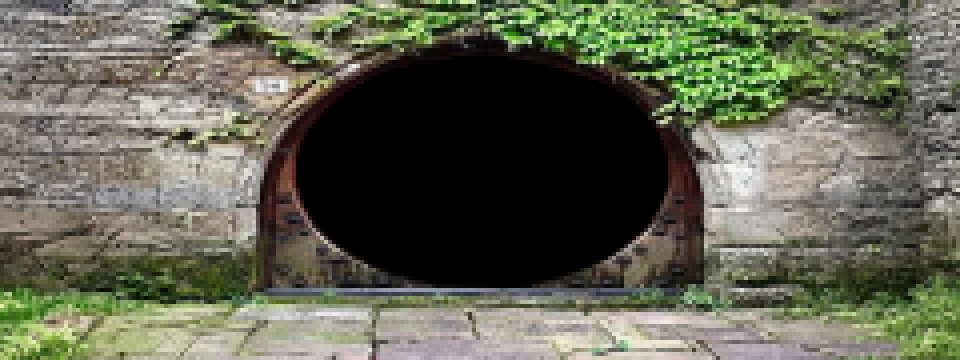
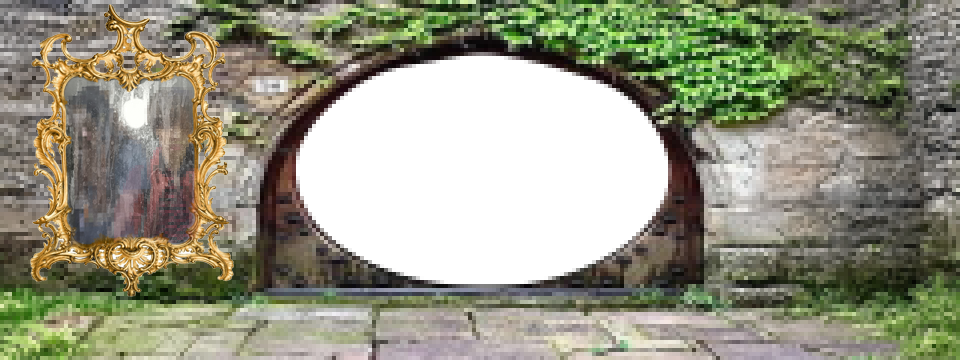
Alot of features for the TowerDoor scene

diff --git a/src/scenes/utility/load.js b/src/scenes/utility/load.js
@@ -19,6 +19,8 @@ class Load extends Phaser.Scene
        this.load.image('pointerHover','./assets/images/Hover.png')
        this.load.image('pointerHold','./assets/images/Hold.png')
        this.load.image('devBG','./assets/images/RobertRoom/DevScene.png')
+       this.load.image('portal', './assets/images/PortalBackdrop.png')
+       this.load.image('letterHand', './assets/images/LetterHand.png')
        //Michaels room
         this.load.image('michaelRoomBG','./assets/images/MichaelRoom/MichaelsRoomBG.png')
         this.load.image('michaelComputer','./assets/images/MichaelRoom/computer.png')
@@ -48,12 +50,16 @@ class Load extends Phaser.Scene
         this.load.image('playBG2','./assets/images/PlayRoom/GroundForeground.png')
         //TowerEntrance
         this.load.image('towerEntranceBG','./assets/images/TowerEntrance/TowerFrontDoor.png')
+        this.load.image('mirrorShard','./assets/images/TowerEntrance/MirrorShard.png')
+        this.load.image('towerDoorClosed','./assets/images/TowerEntrance/DoorClosed.png')
+        this.load.image('towerDoorOpen','./assets/images/TowerEntrance/DoorOpen.png')
         // this.load.image('towerMirror','./assets/images/TowerEntrance/Mirror.png')
         this.load.spritesheet('towerMirror','./assets/images/TowerEntrance/MirrorSheet.png',{frameWidth: 204, frameHeight: 300})
 
         //load spritesheets---------------
         this.load.spritesheet('mailBox','./assets/images/RobertRoom/MaleBoxAnimatedV2.png',{frameWidth: 180, frameHeight: 250})
         this.load.spritesheet('bottleSheet','./assets/images/PlayRoom/BottleSheet.png',{frameWidth: 427, frameHeight: 425})
+        this.load.spritesheet('eyeBlink','./assets/images/TowerEntrance/EyeBlinkSheet.png',{frameWidth: 207, frameHeight: 122})
         //load audio------------------
         this.load.audio('fireSound','./assets/sounds/fire.wav')
         //load fonts------------------
@@ -81,6 +87,14 @@ class Load extends Phaser.Scene
                 key: 'bottleAnim',
                 frames: this.anims.generateFrameNumbers('bottleSheet',{start: 0, end: 3}),
                 frameRate: 15,
+                repeat: -1
+            })
+
+            //Eye Blinking animatation
+            this.anims.create({
+                key: 'eyeBlinkAnim',
+                frames: this.anims.generateFrameNumbers('eyeBlink',{start: 0, end: 1}),
+                frameRate: 2,
                 repeat: -1
             })
             

diff --git a/src/scenes/towerEntrance/TowerEntrance.js b/src/scenes/towerEntrance/TowerEntrance.js
@@ -6,9 +6,16 @@ class TowerEntrance extends Phaser.Scene {
     create(){
         this.mirrorClicks = 0
         this.mirrorBroken = false
+        this.towerDoorClickable = new ClickableObject(this, 482, 170, 'towerDoorClosed', "The door is locked tight.").setOrigin(0.5,0.5).setScale(1.2)
+        this.towerDoorway = new DoorWay(this, 459, 135, 'towerDoorClosed', 'towerEntranceScene', 'towerDoorOpen').setOrigin(0.5,0.5).setScale(1.2)
         this.towerEntranceBG = this.add.image(0,0,'towerEntranceBG').setOrigin(0,0)
+
         //this.towerMirror = this.add.image(30,4,'towerMirror').setOrigin(0,0)
-        this.mirror = this.add.sprite(30,4,'towerMirror',0).setOrigin(0,0).setInteractive()
+        this.mirror = new ClickableObject (this, 132, 150, 'towerMirror', "Its so fragile...").setOrigin(0.5,0.5)
+        this.mirrorBrokenFindable = new FindableObject(this,3000,4 + 150,'towerMirror','mirrorShardCloseUpScene', -1).setOrigin(0.5,0.5).setFrame(3) //Not doorway because its resetting sprite to default
+
+        this.eye = new ClickableObject ( this, 805, 69, 'eyeBlink', "Its watching you...").setOrigin(0.5,0.5).play('eyeBlinkAnim')
+
         this.mirror.on('pointerdown', () => {
             if (this.mirrorBroken) return
 
@@ -22,6 +29,14 @@ class TowerEntrance extends Phaser.Scene {
                 this.mirrorBroken = true
             }
         })
+
+        this.eye.on('pointerover', () => {
+            this.eye.anims.pause()
+            this.eye.setFrame(2)
+        })
+        this.eye.on('pointerout', () => {
+            this.eye.anims.play('eyeBlinkAnim')
+        })
     }
 
     update(){
@@ -32,7 +47,10 @@ class TowerEntrance extends Phaser.Scene {
                     on the third or 5th crack the mirror breaks 
                     mirror becomes a findable shard of glass
         */
-
+       if (this.mirrorBroken) {
+        this.mirror.x = 1500 //Send it off screen
+        this.mirrorBrokenFindable.x = 132
+       }
     }
 
 }

diff --git a/src/scenes/towerEntrance/MirrorShardCloseUp.js b/src/scenes/towerEntrance/MirrorShardCloseUp.js
@@ -1,0 +1,23 @@
+class MirrorShardCloseUp extends Phaser.Scene
+{
+    constructor()
+    {
+        super("mirrorShardCloseUpScene")
+    }
+
+    create(){
+         //add black bg so there isn't red clipping when the portal bg is rotating
+        this.add.rectangle(0,0,width,playHeight,0x000000).setOrigin(0,0)
+        this.sceneBG = this.add.image(width/2,playHeight/2,'portal').setOrigin(0.5,0.5)
+        this.mirrorShard = new FindableObject(this,225,180,'mirrorShard','towerUnlockedScene',-1).setOrigin(0.5,0.5)
+       // this.shard = new FindableObject(this,225,180,'mailBox','towerUnlockedScene',3).play('bottleAnim').setOrigin(0.5,0.5)
+        
+        //background rotate slowly
+        this.tweens.add({
+            targets: this.sceneBG,
+            angle: 360,
+            duration: 30000,
+            repeat: -1
+        })
+    }
+}

diff --git a/src/scenes/betweenScenes/MaleBoxCloseUp.js b/src/scenes/betweenScenes/MaleBoxCloseUp.js
@@ -5,9 +5,18 @@ class MaleBoxCloseUp extends Phaser.Scene
     }
 
     create()
-    {
-        this.sceneBG = this.add.image(width/2,playHeight/2,'playLetter')
+    {   
+        //add black bg so there isn't red clipping when the portal bg is rotating
+        this.add.rectangle(0,0,width,playHeight,0x000000).setOrigin(0,0)
+        this.sceneBG = this.add.image(width/2,playHeight/2,'portal').setOrigin(0.5,0.5)
         this.bottle = new FindableObject(this,225,180,'mailBox','towerUnlockedScene',3).play('bottleAnim').setOrigin(0.5,0.5)
-            
+        
+        //background rotate slowly
+        this.tweens.add({
+            targets: this.sceneBG,
+            angle: 360,
+            duration: 30000,
+            repeat: -1
+        })
     }
 }

diff --git a/index.html b/index.html
@@ -17,7 +17,8 @@
     <script src = "./src/scenes/betweenScenes/StairWell.js"></script>
     <script src = "./src/scenes/betweenScenes/MaleBoxCloseUp.js"></script>
     <script src = "./src/scenes/betweenScenes/TowerUnlocked.js"></script>
-     <script src = "./src/scenes/towerEntrance/TowerEntrance.js"></script>
+    <script src = "./src/scenes/towerEntrance/TowerEntrance.js"></script>
+    <script src = "./src/scenes/towerEntrance/MirrorShardCloseUp.js"></script>
     <script src = "./src/scenes/robertRooms/RobertRoom.js"></script>
     <script src = "./src/scenes/robertRooms/BodyChamber.js"></script>
     <script src = "./src/scenes/michaelRooms/MichaelRoom.js"></script>

diff --git a/src/scenes/betweenScenes/TowerDoor.js b/src/scenes/betweenScenes/TowerDoor.js
@@ -10,7 +10,7 @@ class TowerDoor extends Phaser.Scene
         
 
         //Background 
-       this.sceneBG = this.add.image(width/2,playHeight/2,'testBG')
+        this.sceneBG = this.add.image(width/2,playHeight/2,'testBG')
         //Object examples of making a clickable object and FindableObject
         this.testImage2 = new ClickableObject(this,100,250,'testImg',"A Brave wariors remains...\n I wonder why he left his\n weapon? Maybe he became \n a monk?")
         this.toStiarWell = new DoorWay(this,500,250,'testImg','stairWellScene')

diff --git a/src/main.js b/src/main.js
@@ -13,7 +13,7 @@ let config = {
     },
     scene: [Load,Intro,
             Play,MaleBoxCloseUp,TowerUnlocked,TowerDoor,StairWell,
-            TowerEntrance,
+            TowerEntrance,MirrorShardCloseUp,
             MichaelRoom,,ShieldCloseUp,ComputerCloseUp,FurnaceCloseUp,
             RobertRoom,
             UI  ]
